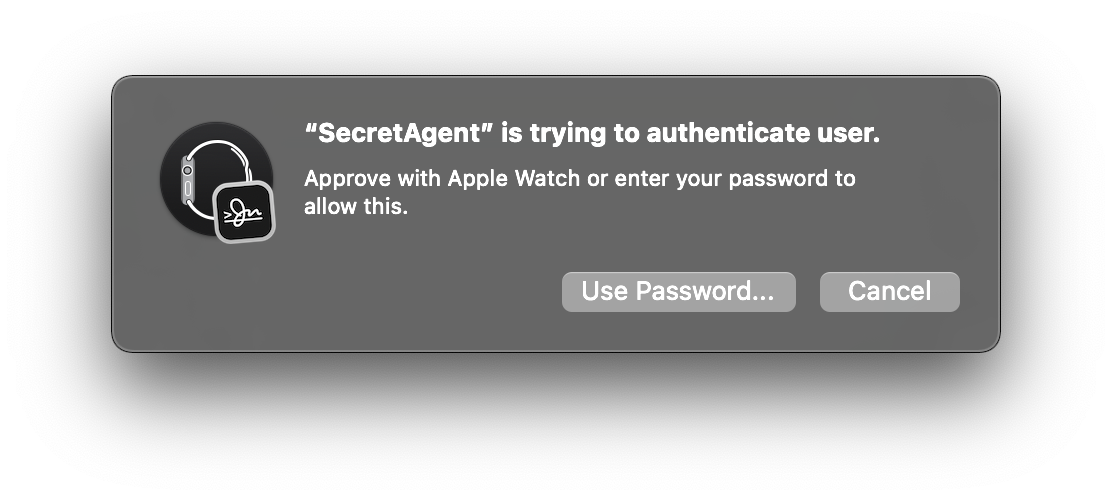
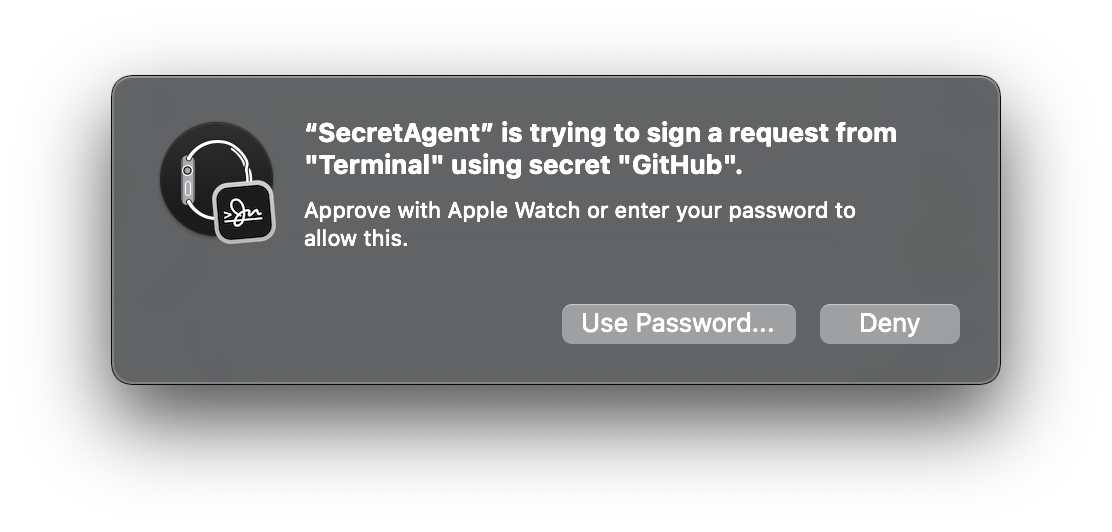
Show request details in Secure prompts (#146)

diff --git a/SecretKit/Common/Erasers/AnySecretStore.swift b/SecretKit/Common/Erasers/AnySecretStore.swift
@@ -8,7 +8,7 @@ public class AnySecretStore: SecretStore {
     private let _id: () -> UUID
     private let _name: () -> String
     private let _secrets: () -> [AnySecret]
-    private let _sign: (Data, AnySecret) throws -> Data
+    private let _sign: (Data, AnySecret, SigningRequestProvenance) throws -> Data
     private var sink: AnyCancellable?
 
     public init<SecretStoreType>(_ secretStore: SecretStoreType) where SecretStoreType: SecretStore {
@@ -17,7 +17,7 @@ public class AnySecretStore: SecretStore {
         _name = { secretStore.name }
         _id = { secretStore.id }
         _secrets = { secretStore.secrets.map { AnySecret($0) } }
-        _sign = { try secretStore.sign(data: $0, with: $1.base as! SecretStoreType.SecretType) }
+        _sign = { try secretStore.sign(data: $0, with: $1.base as! SecretStoreType.SecretType, for: $2) }
         sink = secretStore.objectWillChange.sink { _ in
             self.objectWillChange.send()
         }
@@ -39,8 +39,8 @@ public class AnySecretStore: SecretStore {
         return _secrets()
     }
 
-    public func sign(data: Data, with secret: AnySecret) throws -> Data {
-        try _sign(data, secret)
+    public func sign(data: Data, with secret: AnySecret, for provenance: SigningRequestProvenance) throws -> Data {
+        try _sign(data, secret, provenance)
     }
 
 }

diff --git a/SecretKit/SmartCard/SmartCardStore.swift b/SecretKit/SmartCard/SmartCardStore.swift
@@ -1,6 +1,7 @@
 import Foundation
 import Security
 import CryptoTokenKit
+import LocalAuthentication
 
 // TODO: Might need to split this up into "sub-stores?"
 // ie, each token has its own Store.
@@ -43,13 +44,17 @@ extension SmartCard {
             fatalError("Keys must be deleted on the smart card.")
         }
 
-        public func sign(data: Data, with secret: SecretType) throws -> Data {
+        public func sign(data: Data, with secret: SecretType, for provenance: SigningRequestProvenance) throws -> Data {
             guard let tokenID = tokenID else { fatalError() }
+            let context = LAContext()
+            context.localizedReason = "sign a request from \"\(provenance.origin.name)\" using secret \"\(secret.name)\""
+            context.localizedCancelTitle = "Deny"
             let attributes = [
                 kSecClass: kSecClassKey,
                 kSecAttrKeyClass: kSecAttrKeyClassPrivate,
                 kSecAttrApplicationLabel: secret.id as CFData,
                 kSecAttrTokenID: tokenID,
+                kSecUseAuthenticationContext: context,
                 kSecReturnRef: true
                 ] as CFDictionary
             var untyped: CFTypeRef?

diff --git a/SecretKit/SecureEnclave/SecureEnclaveStore.swift b/SecretKit/SecureEnclave/SecureEnclaveStore.swift
@@ -1,6 +1,7 @@
 import Foundation
 import Security
 import CryptoTokenKit
+import LocalAuthentication
 
 extension SecureEnclave {
 
@@ -75,7 +76,10 @@ extension SecureEnclave {
             reloadSecrets()
         }
 
-        public func sign(data: Data, with secret: SecretType) throws -> Data {
+        public func sign(data: Data, with secret: SecretType, for provenance: SigningRequestProvenance) throws -> Data {
+            let context = LAContext()
+            context.localizedReason = "sign a request from \"\(provenance.origin.name)\" using secret \"\(secret.name)\""
+            context.localizedCancelTitle = "Deny"
             let attributes = [
                 kSecClass: kSecClassKey,
                 kSecAttrKeyClass: kSecAttrKeyClassPrivate,
@@ -83,6 +87,7 @@ extension SecureEnclave {
                 kSecAttrKeyType: Constants.keyType,
                 kSecAttrTokenID: kSecAttrTokenIDSecureEnclave,
                 kSecAttrApplicationTag: Constants.keyTag,
+                kSecUseAuthenticationContext: context,
                 kSecReturnRef: true
                 ] as CFDictionary
             var untyped: CFTypeRef?

diff --git a/SecretKit/Common/Types/SigningRequestProvenance.swift b/SecretKit/Common/Types/SigningRequestProvenance.swift
@@ -17,7 +17,7 @@ extension SigningRequestProvenance {
     }
 
     public var intact: Bool {
-        return chain.reduce(true) { $0 && $1.validSignature }
+        chain.allSatisfy { $0.validSignature }
     }
 
 }
@@ -30,9 +30,9 @@ extension SigningRequestProvenance {
         public let name: String
         public let path: String
         public let validSignature: Bool
-        let parentPID: Int32?
+        public let parentPID: Int32?
 
-        init(pid: Int32, name: String, path: String, validSignature: Bool, parentPID: Int32?) {
+        public init(pid: Int32, name: String, path: String, validSignature: Bool, parentPID: Int32?) {
             self.pid = pid
             self.name = name
             self.path = path

diff --git a/SecretAgentKitTests/StubStore.swift b/SecretAgentKitTests/StubStore.swift
@@ -48,7 +48,7 @@ extension Stub {
             print("Public Key OpenSSH: \(OpenSSHKeyWriter().openSSHString(secret: secret))")
         }
 
-        public func sign(data: Data, with secret: Secret) throws -> Data {
+        public func sign(data: Data, with secret: Secret, for provenance: SigningRequestProvenance) throws -> Data {
             guard !shouldThrow else {
                 throw NSError()
             }

diff --git a/SecretAgentKit/Agent.swift b/SecretAgentKit/Agent.swift
@@ -93,7 +93,7 @@ extension Agent {
         }
 
         let dataToSign = reader.readNextChunk()
-        let derSignature = try store.sign(data: dataToSign, with: secret)
+        let derSignature = try store.sign(data: dataToSign, with: secret, for: provenance)
 
         let curveData = writer.curveType(for: secret.algorithm, length: secret.keySize).data(using: .utf8)!
 

diff --git a/Secretive/Preview Content/PreviewStore.swift b/Secretive/Preview Content/PreviewStore.swift
@@ -35,7 +35,7 @@ extension Preview {
             self.secrets.append(contentsOf: new)
         }
 
-        func sign(data: Data, with secret: Preview.Secret) throws -> Data {
+        func sign(data: Data, with secret: Preview.Secret, for provenance: SigningRequestProvenance) throws -> Data {
             return data
         }
 

diff --git a/SecretKit/Common/Types/SecretStore.swift b/SecretKit/Common/Types/SecretStore.swift
@@ -9,7 +9,7 @@ public protocol SecretStore: ObservableObject, Identifiable {
     var name: String { get }
     var secrets: [SecretType] { get }
 
-    func sign(data: Data, with secret: SecretType) throws -> Data
+    func sign(data: Data, with secret: SecretType, for provenance: SigningRequestProvenance) throws -> Data
 
 }
 

diff --git a/SecretAgentKit/SigningRequestTracer.swift b/SecretAgentKit/SigningRequestTracer.swift
@@ -1,6 +1,7 @@
 import Foundation
 import AppKit
 import Security
+import SecretKit
 
 struct SigningRequestTracer {
 
